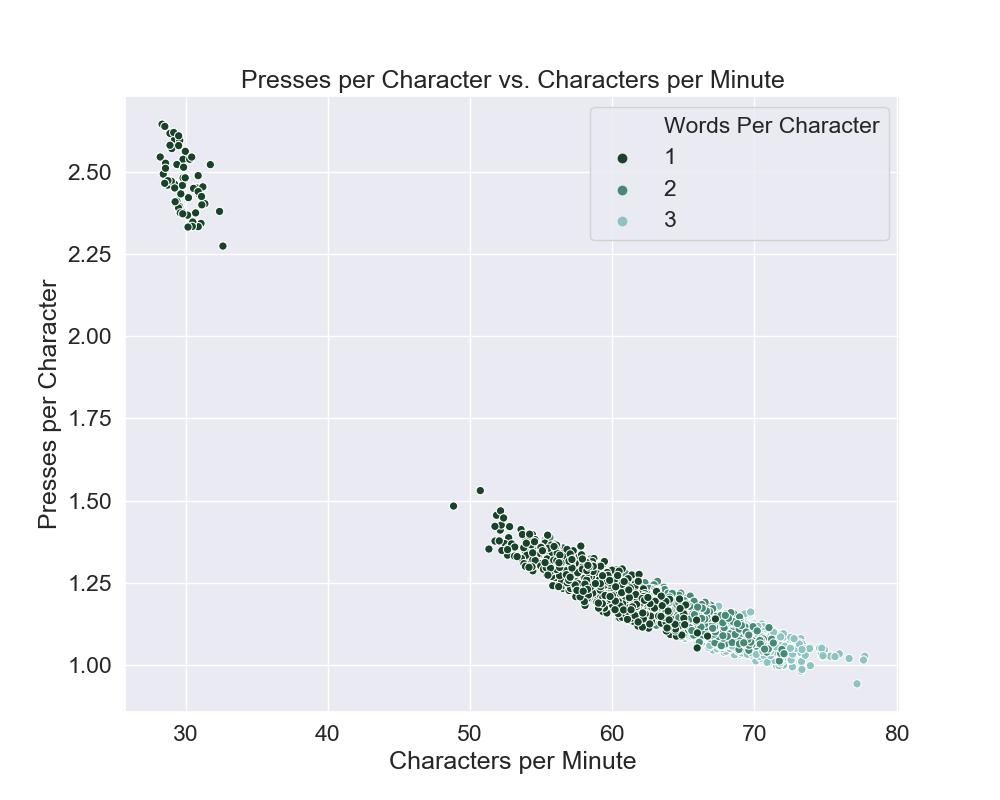
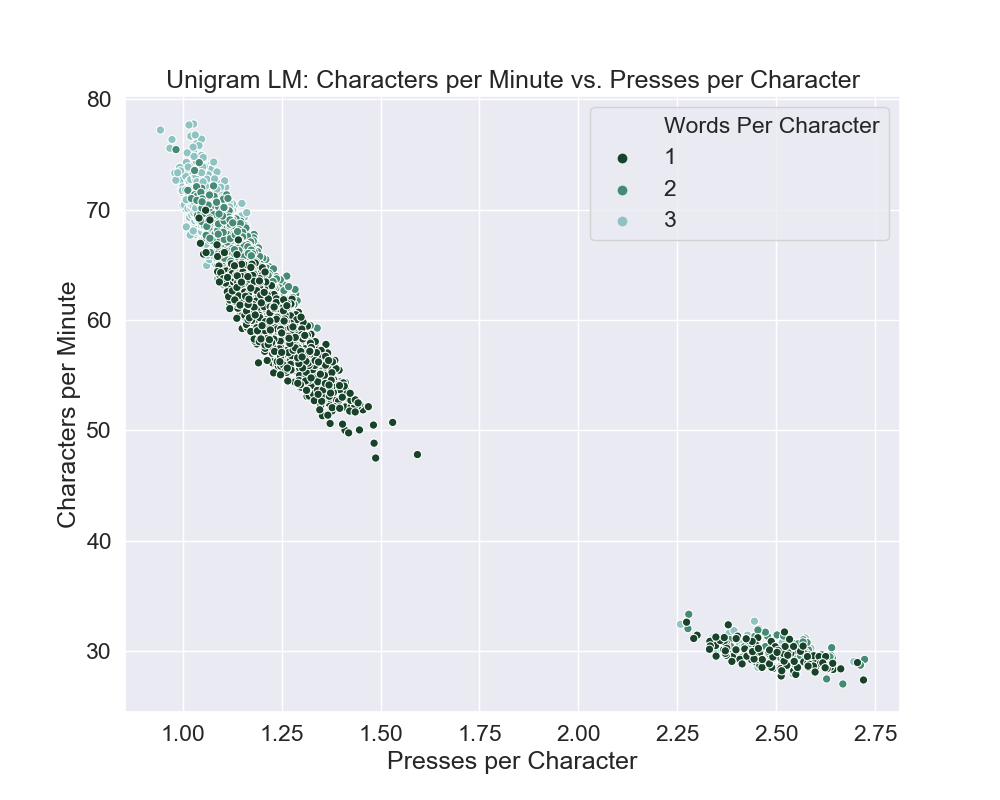
updated plots

diff --git a/keyboard/sim_data_load.py b/keyboard/sim_data_load.py
@@ -170,6 +170,7 @@ class SimDataUtil:
     def plot_across_params(self):
 
         ind_var_name = "Word Predictions Max Count"
+        # ind_var_name = "Word Predictions Max Count"
         for data_label in ['selections', 'characters', 'presses_sel', 'presses_char', 'errors']:
             if data_label == 'selections':
                 dep_var_name = "Selections per Minute"
@@ -190,10 +191,12 @@ class SimDataUtil:
             plt.figure(figsize=(10, 8))
             sns.set(font_scale=1.5, rc={"lines.linewidth": 3})
             sns.set_style({'font.serif': 'Helvetica'})
-            sns.lineplot(x="Word Predictions Max Count", y=dep_var_name, hue="Words Per Character",
-                         palette=sns.cubehelix_palette(1, start=2, rot=0.2, dark=.2, light=.7, reverse=True), data=DF, ci='sd')
-            # sns.scatterplot(x=ind_var_name, y=dep_var_name, hue="Words Per Character",
-            #                 palette=sns.cubehelix_palette(3, start=2, rot=0.2, dark=.2, light=.7, reverse=True), data=DF)
+            if ind_var_name == "Word Predictions Max Count":
+                sns.lineplot(x=ind_var_name, y=dep_var_name, hue="Words Per Character",
+                             palette=sns.cubehelix_palette(3, start=2, rot=0.2, dark=.2, light=.7, reverse=True), data=DF, ci="sd")
+            else:
+                sns.scatterplot(x=ind_var_name, y=dep_var_name, hue="Words Per Character",
+                                palette=sns.cubehelix_palette(3, start=2, rot=0.2, dark=.2, light=.7, reverse=True), data=DF)
             plt.title("Unigram LM: "+dep_var_name+" vs. "+ind_var_name)
             plt.show()
 
@@ -232,7 +235,7 @@ def main():
     #                "y": "Average (-) Gradient of MSE Over Presses"}
     # sdu.plot_across_user("kde_mses", (3, 0.008), trends=True, log=False, legend=plot_legend)
 
-    sdu = SimDataUtil("simulations/param_opt/supercloud_results_unigram")
+    sdu = SimDataUtil("simulations/param_opt/supercloud_results_max_count")
     sdu.plot_across_params()
 
     # plot_legend = {"title": "MSE of Nomon KDE vs Bimodal Distance",
